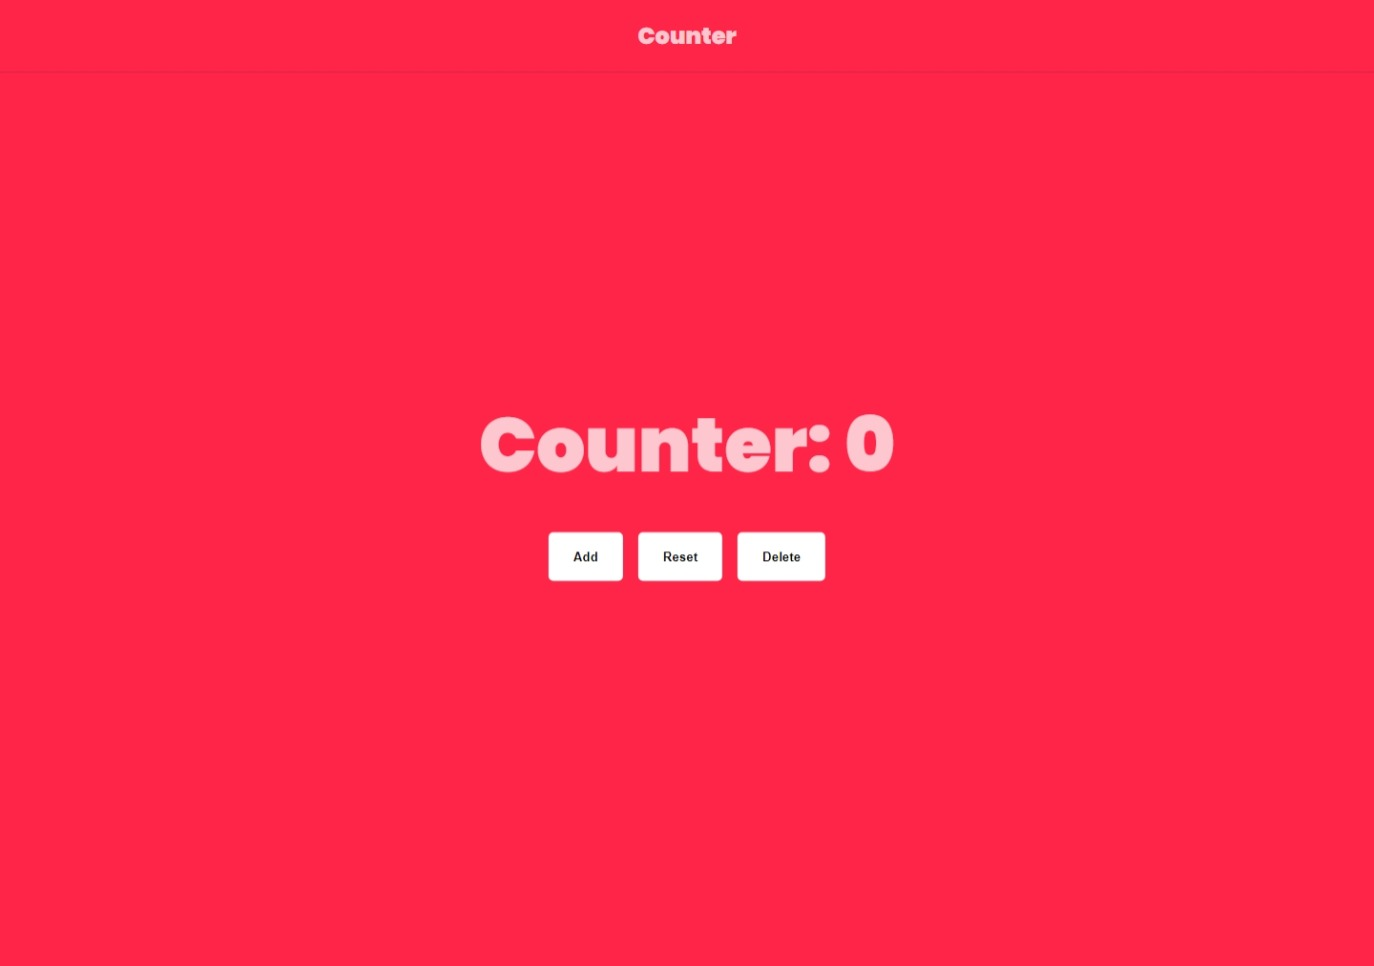
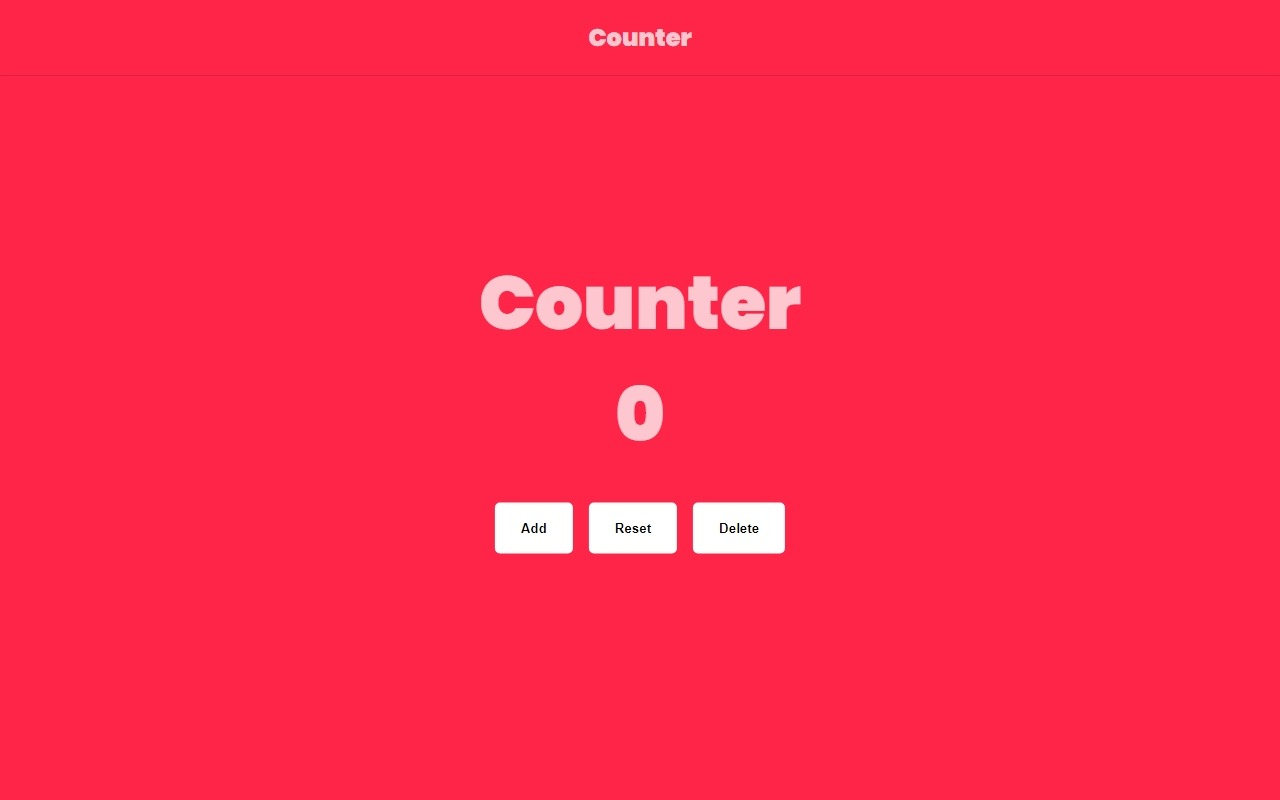
Added Color change

Changed region(s): [[0.3438, 0.3438, 0.6562, 0.7188], [0.4375, 0.0312, 0.5625, 0.0625]]

diff --git a/script.js b/script.js
@@ -4,14 +4,29 @@ let count = 0;
 
 function add() {
   count += 1;
-  text.textContent = "Counter: " + count;
+  text.textContent = count;
+  if (count < 0) {
+    text.style.color = "hsl(17, 99%, 57%)";
+  } else {
+    text.style.color = "";
+  }
 }
 
 function del() {
   count -= 1;
-  text.textContent = "Counter: " + count;
+  text.textContent = count;
+  if (count < 0) {
+    text.style.color = "hsl(17, 99%, 57%)";
+  } else {
+    text.style.color = "";
+  }
 }
 function reset() {
   count = 0;
-  text.textContent = "Counter: " + count;
+  text.textContent = count;
+  if (count < 0) {
+    text.style.color = "hsl(17, 99%, 57%)";
+  } else {
+    text.style.color = "";
+  }
 }

diff --git a/index.html b/index.html
@@ -37,8 +37,10 @@
         top: 50%;
         transform: translate(-50%, -50%);
         > h1 {
-          font-size: clamp(1rem, -0.4085rem + 6.0094vw, 5rem);
+          font-size: clamp(2.875rem, 2.1268rem + 3.1925vw, 5rem);
           text-align: center;
+        }
+        #count {
           margin-bottom: 2rem;
         }
         > div {
@@ -75,7 +77,8 @@
       <h1>Counter</h1>
     </nav>
     <main>
-      <h1 id="count">Counter: 0</h1>
+      <h1>Counter</h1>
+      <h1 id="count">0</h1>
       <div>
         <button onclick="add()">Add</button>
         <button onclick="reset()">Reset</button>
